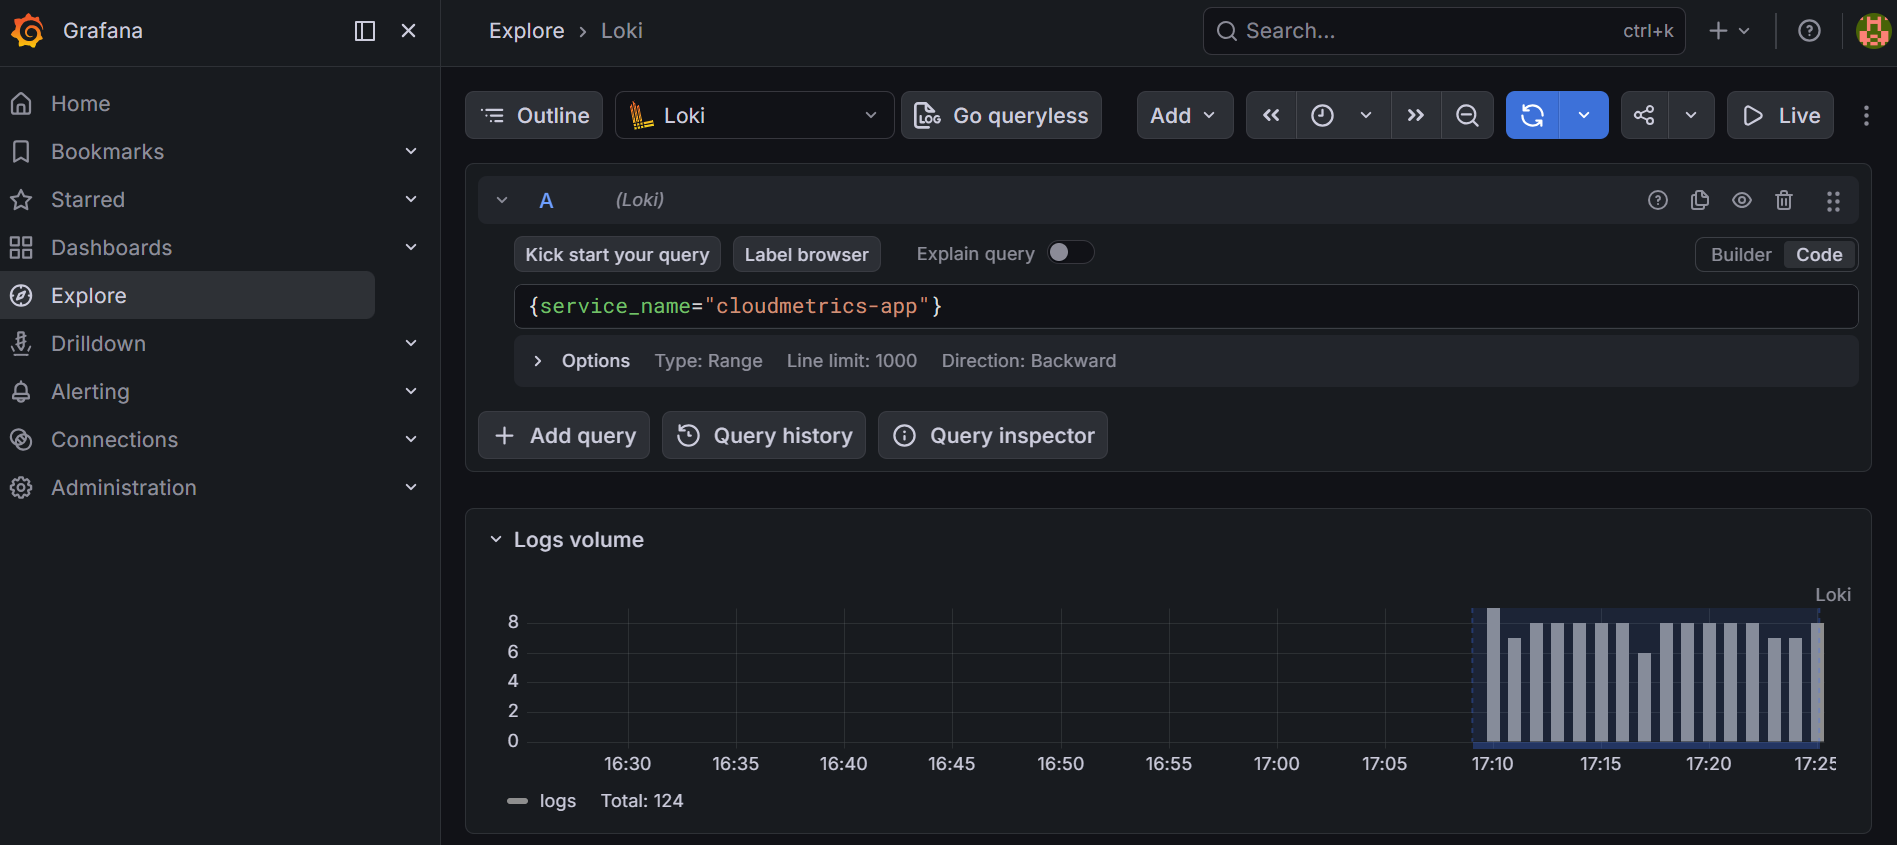
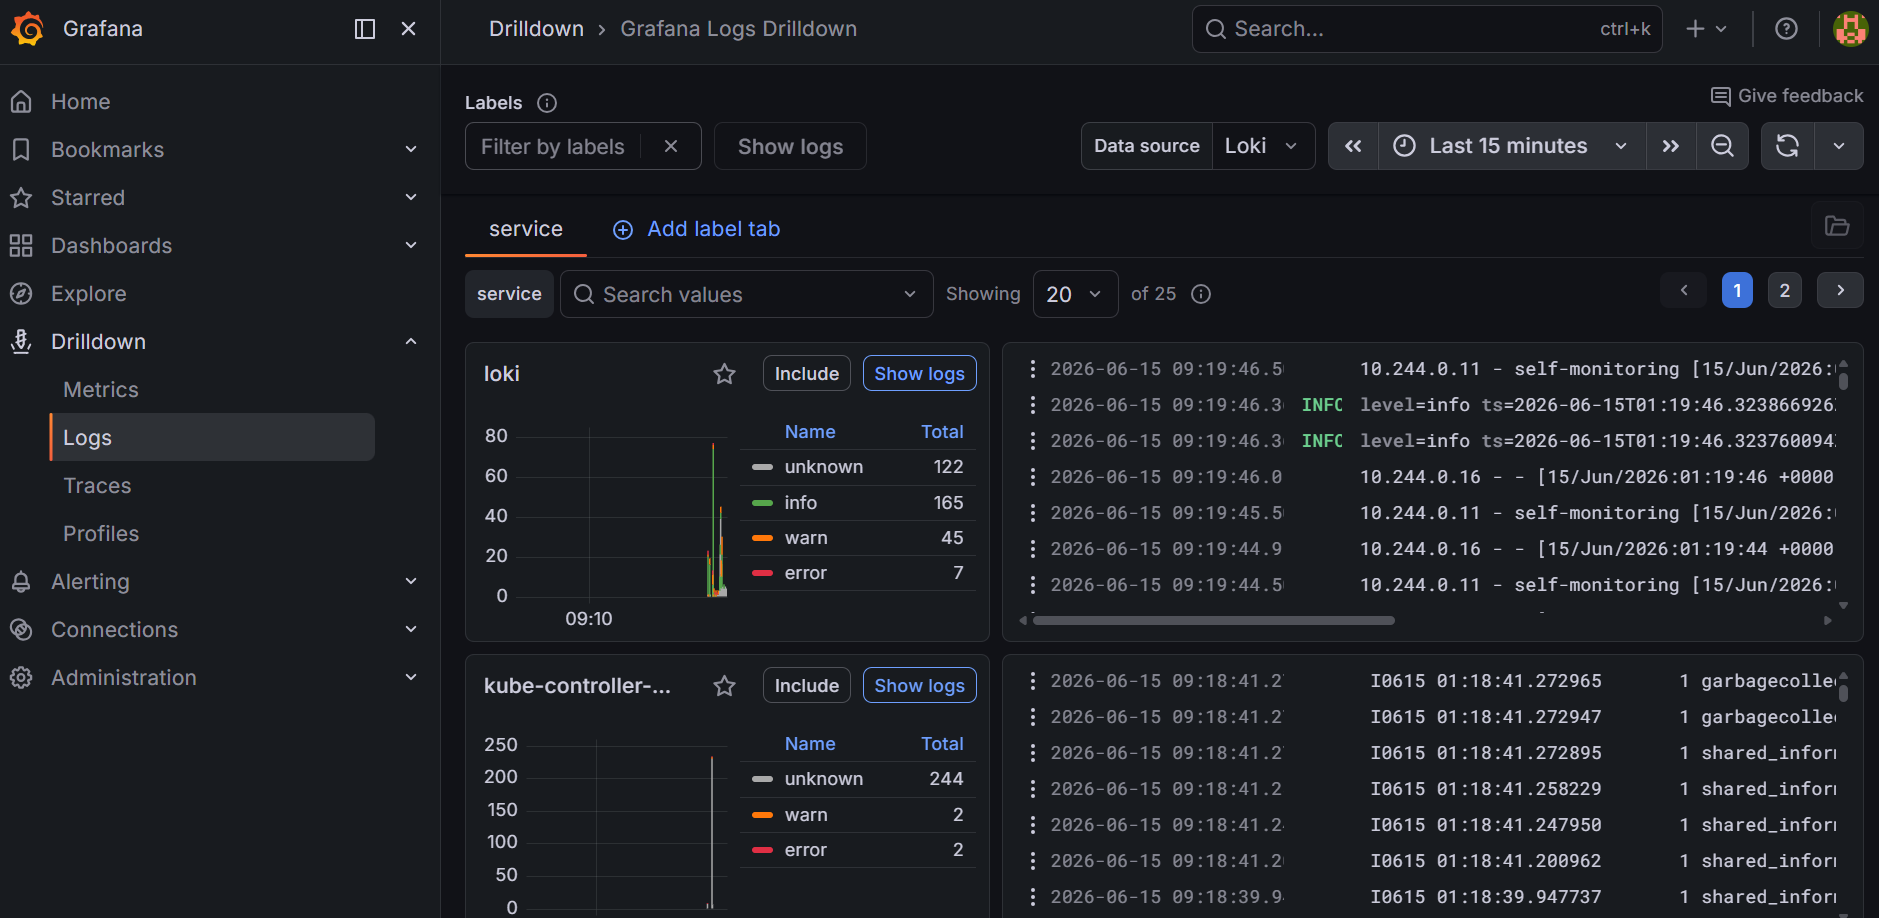
docs: update Grafana images (#39)

diff --git a/README.md b/README.md
@@ -48,8 +48,8 @@ kubectl apply -f argocd-apps/root-app.yaml
 
 ## Accessing Data
 
-1. **Application Metrics**: Once the `EXTERNAL-IP` of the `cloudmetrics-service`
-appears, visit http://localhost:8080/metrics to see the raw Prometheus format.
+1. **Application Metrics**: Visit http://localhost:8080/metrics to see the raw
+Prometheus format.
 
 2. **Grafana UI**: To access the Grafana UI, first port-forward it:
 
@@ -61,10 +61,10 @@ appears, visit http://localhost:8080/metrics to see the raw Prometheus format.
     password you stored in the Kubernetes secret above. You should be able to
     open the `Cloudmetrics` dashboard to see the metrics being displayed.
 
-    ![Grafana UI](images/grafana.png)
+    ![Grafana Dashboard](images/dashboard.png)
 
-    **Logs**: Go to `Explore`, select the `Loki` data source, and run a query
-    such as: `{service_name="cloudmetrics-app"}`.
+    **Logs**: Go to `Drilldown > Logs` to see logs for different services 
+    running in your cluster.
 
     ![Grafana Logs](images/logs.png)
 
